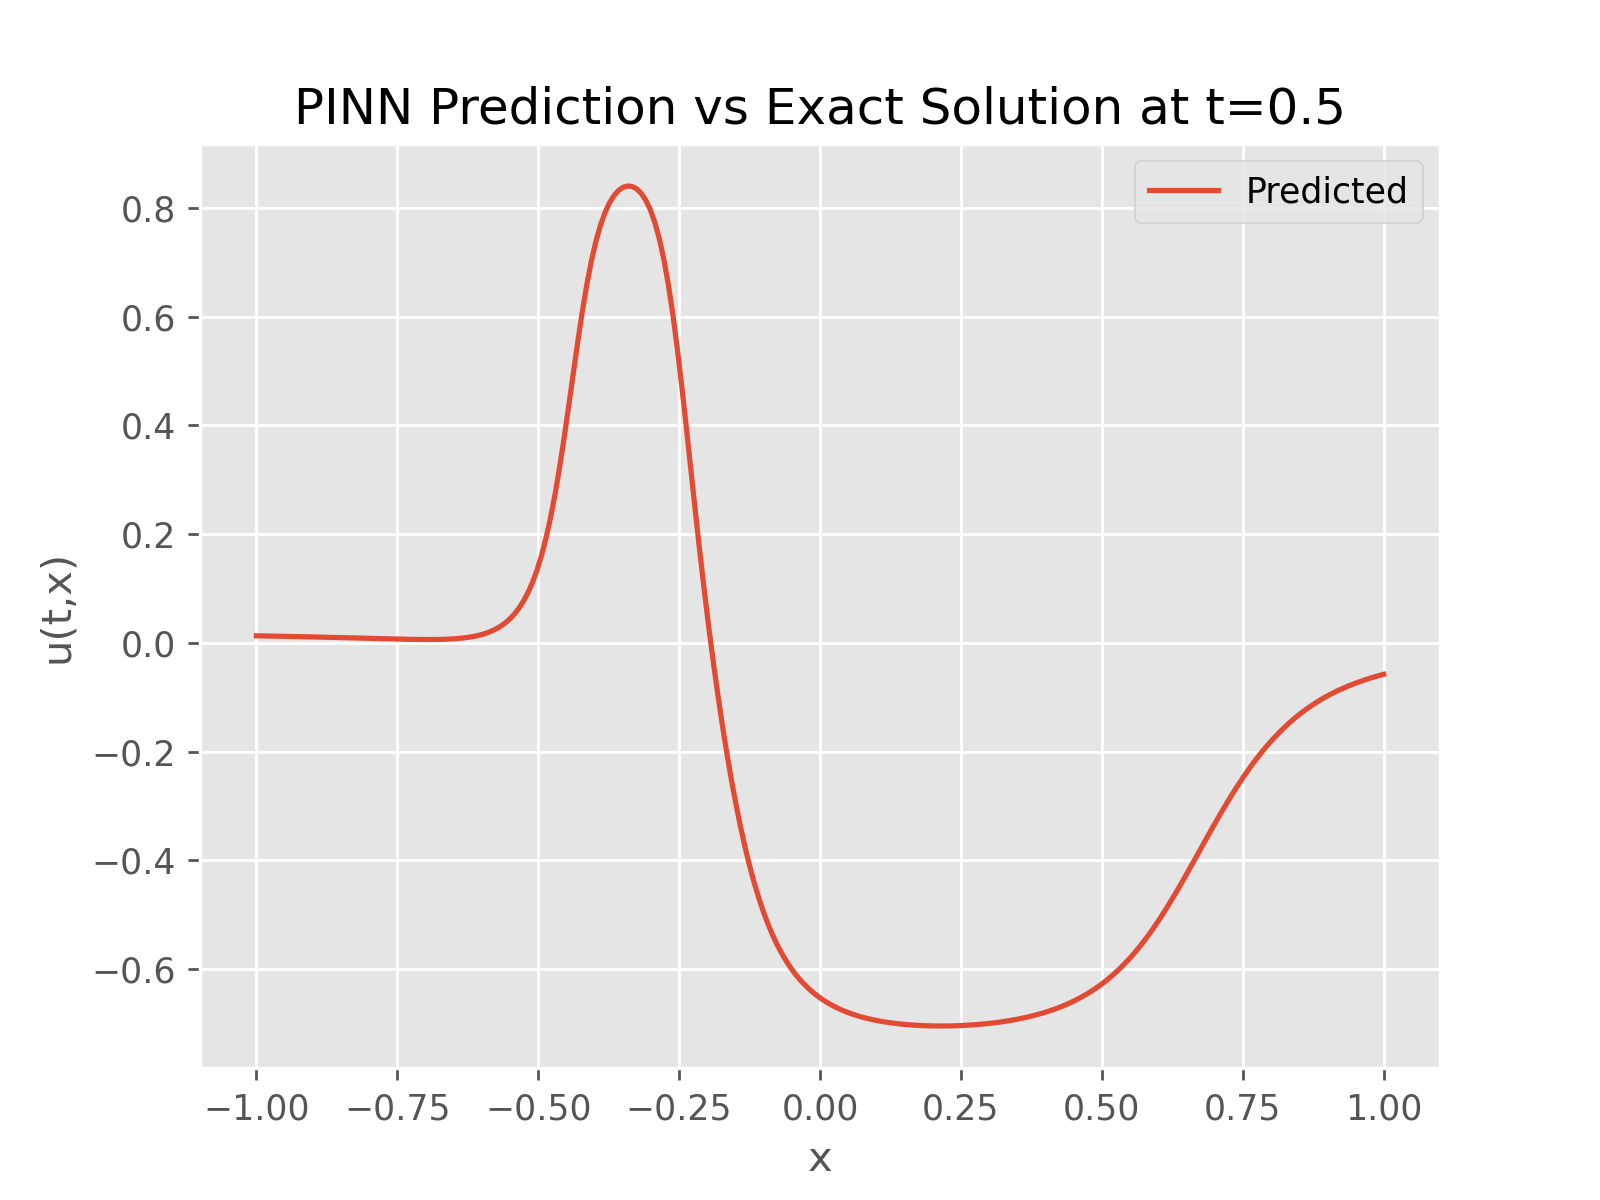
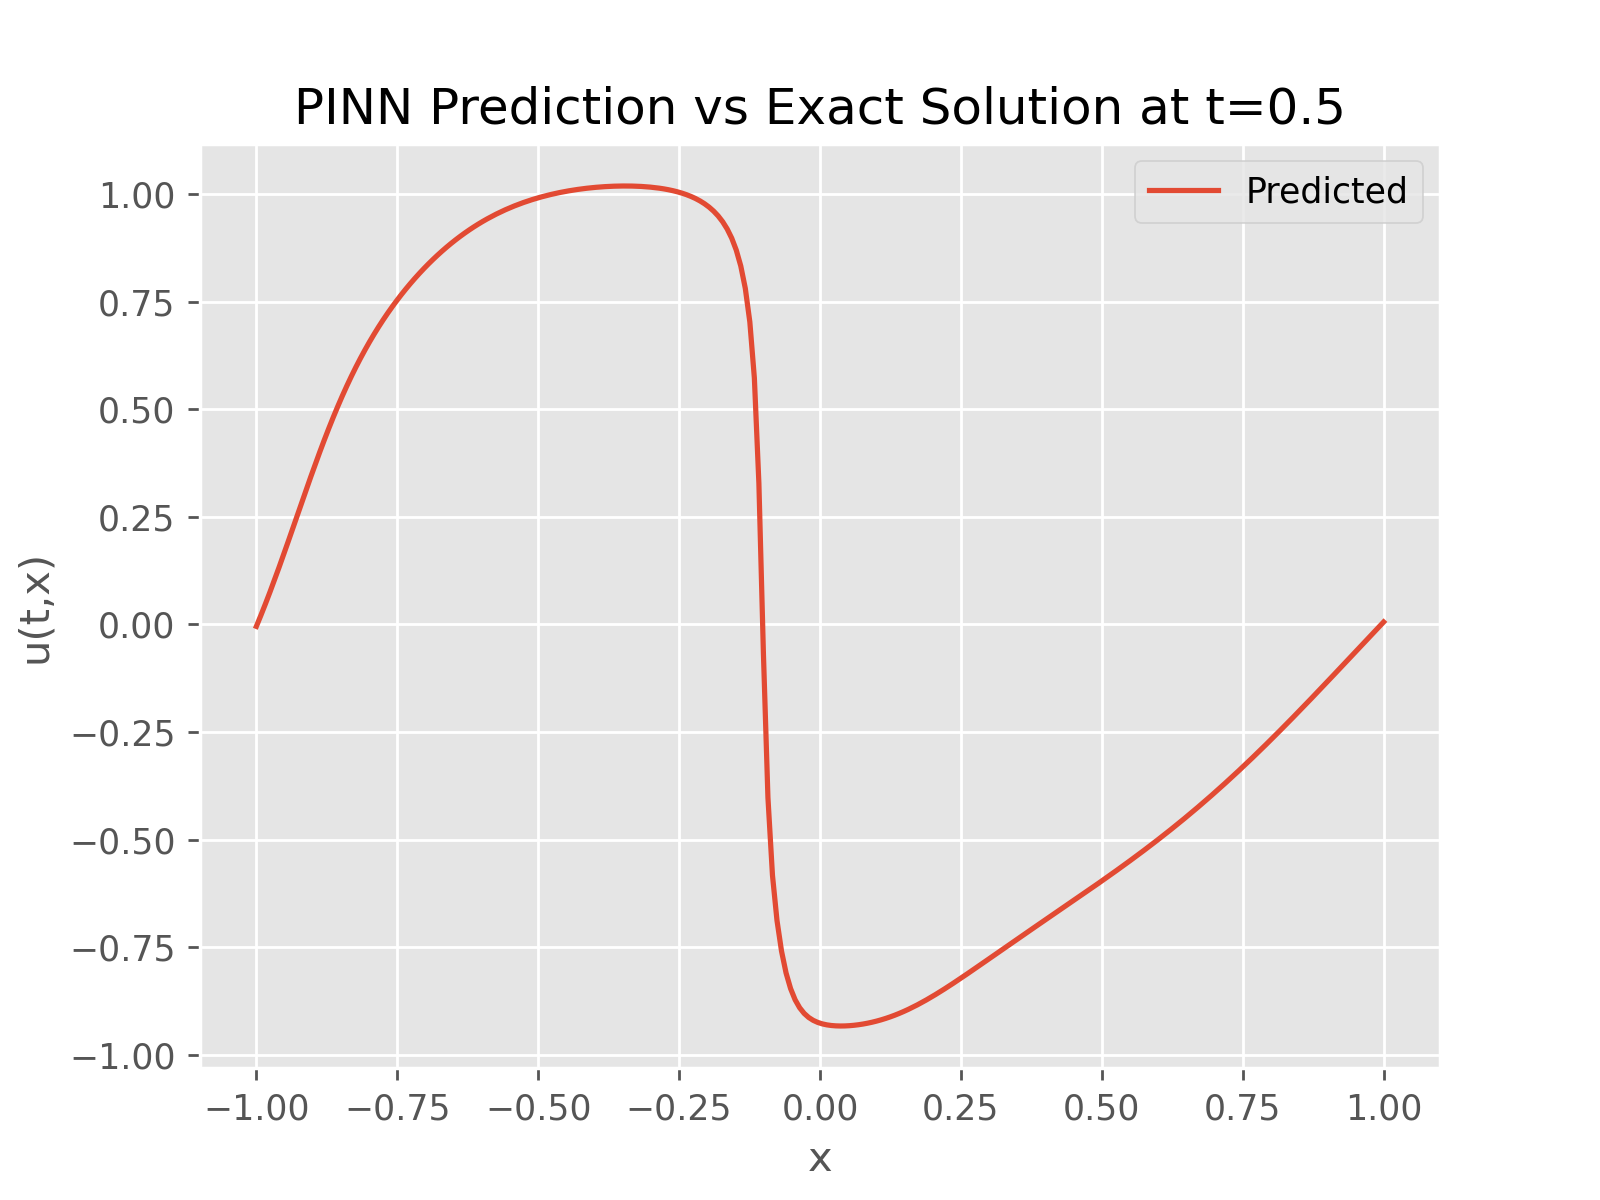
somehow made it worse

diff --git a/pinn.py b/pinn.py
@@ -21,12 +21,10 @@ class Model(nn.Module):
 	        nn.Tanh(), 
 			nn.Linear(20,20),
 			nn.Tanh(), 
-			nn.Dropout(p=0.34),
 			nn.Linear(20,20),
 			nn.Tanh(), 
 			nn.Linear(20,20),
 			nn.Tanh(), 
-			nn.Dropout(p=0.34),
 			nn.Linear(20,20),
 			nn.Tanh(), 
 			nn.Linear(20,20),
@@ -99,12 +97,11 @@ def train(Ni, Nb, Nf, BF, lamda: float=0.35 , EPOCHS=20):
 		
 		uf = f(xf, tf)
 		f_loss = criterion(uf, torch.zeros_like(uf))
-		loss = u_loss + f_loss
+		loss = 2* lamda * u_loss + 2 * (1-lamda) * f_loss
 		
 		optimizer.zero_grad()
 		loss.backward()
 		optimizer.step()
-
 		running_loss += loss.item() 
 		running_f_loss += f_loss.item()
 		running_u_loss += u_loss.item()
@@ -155,7 +152,7 @@ def plot_history(history):
 if __name__=="__main__":
 	
 	BF = lambda x: -torch.sin(torch.pi*x)
-	history = train(Ni=300, Nb=300, Nf=20000, BF=BF, lamda=0.35 , EPOCHS=1000)
+	history = train(Ni=100, Nb=100, Nf=10000, BF=BF, lamda=0.50 , EPOCHS=5000)
 	plot_history(history)
 	plot_results(0.25)
 	plot_results(0.75)
